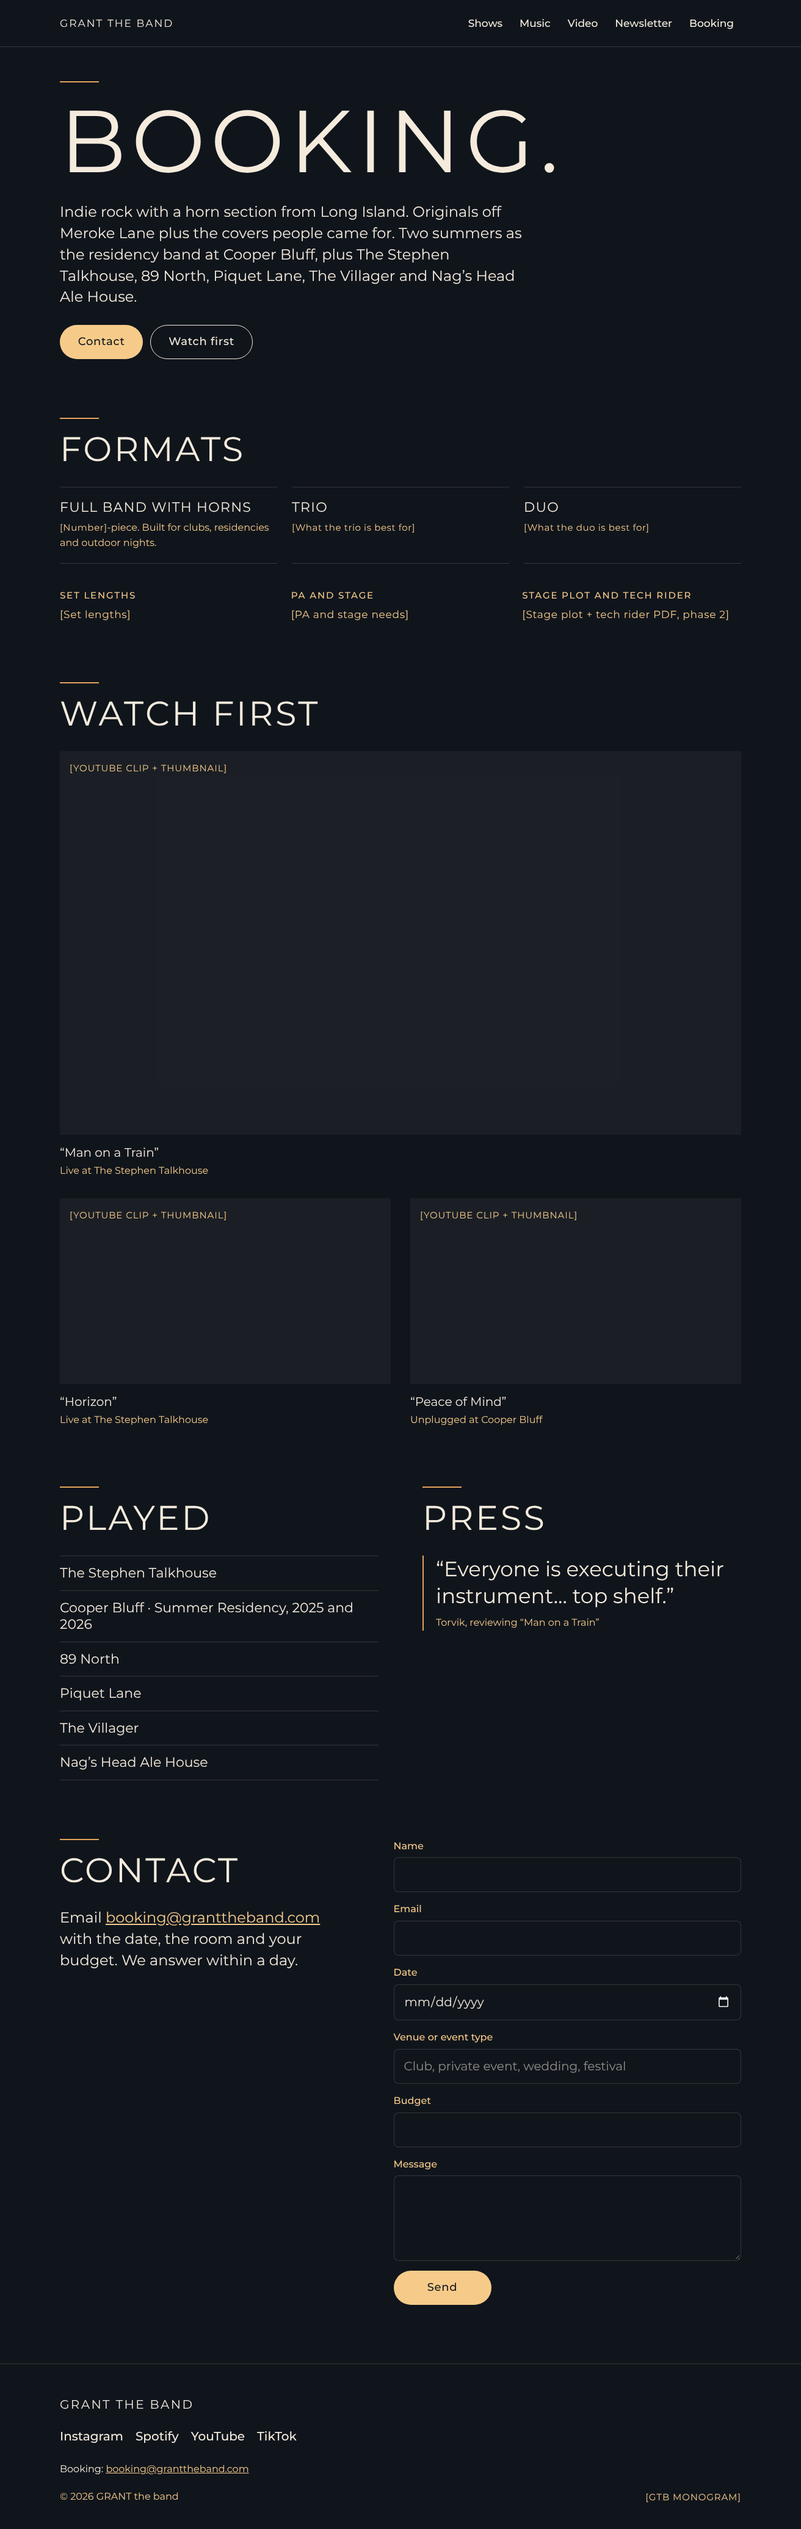
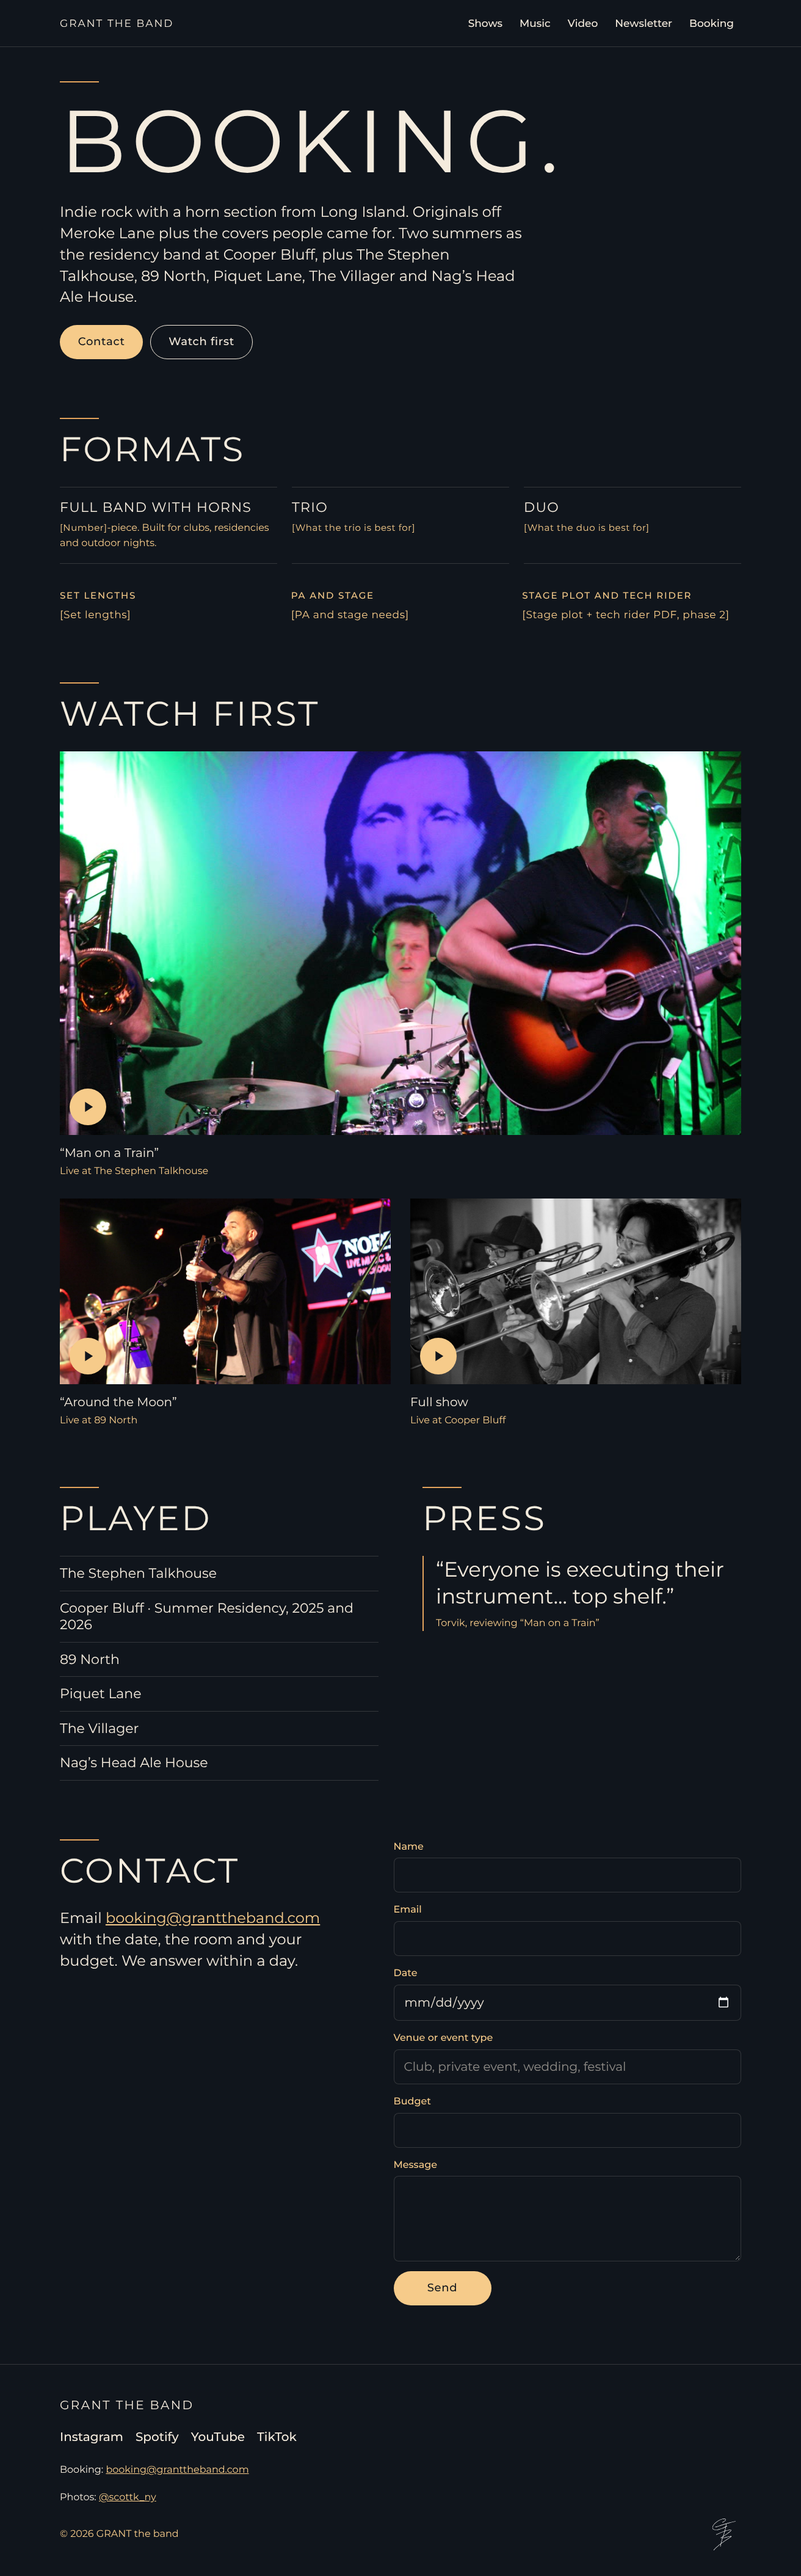
Swap in real assets from public/images/ASSETS.md
- Hero: Talkhouse posters via <picture> (landscape/portrait); graded loops in
  public/video/ are used automatically once those files are added
- Meroke Lane cover, YouTube clips (Man on a Train, Around the Moon, Full show)
  with photo thumbnails, 89 North full-band photo band
- GTB monogram in the footer, favicons and OG cards
- HyperFollow and Apple Music links; Montserrat confirmed as the cover font
- Alt text from ASSETS.md with GRANT the band in full; @scottk_ny credited
- 1200px srcset copies of the 2400px photos (cover left untouched to keep
  its Content Credentials); scrim front-loaded so hero text clears contrast
- Screenshot script loads and decodes lazy images before capturing
- CLAUDE.md and README record the asset rules and what is still missing

Claude-Session: https://claude.ai/code/session_01W6jjmem6fid2ThtCrqmyVk

diff --git a/src/data/site.ts b/src/data/site.ts
@@ -9,9 +9,9 @@ export const links = {
   youtube: 'https://www.youtube.com/@GRANTtheband',
   instagram: 'https://www.instagram.com/grant_theband',
   tiktok: 'https://www.tiktok.com/@granttheband',
-  appleMusic: null as string | null, // [APPLE MUSIC URL]
-  // Meroke Lane HyperFollow (DistroKid smart link). Hero and Music "Listen" buttons.
-  hyperfollow: null as string | null, // [HYPERFOLLOW URL]
+  appleMusic: 'https://music.apple.com/us/album/meroke-lane-ep/6793211371' as string | null, // the EP
+  // Meroke Lane HyperFollow (DistroKid smart link, all platforms). Hero and Music "Listen" buttons.
+  hyperfollow: 'https://distrokid.com/hyperfollow/granttheband/meroke-lane' as string | null,
   // Meroke Lane on YouTube. Falls back to the channel until there's a playlist URL.
   merokeLaneYoutube: null as string | null,
 };
@@ -22,64 +22,134 @@ export const bookingEmail = 'booking@granttheband.com' as string | null;
 // Until then Wordmark.astro renders the type version.
 export const wordmarkSvg = null as string | null; // e.g. '/logo.svg'
 
-// GTB handwritten monogram (white PNG). Footer and favicon. Placeholder until supplied.
-export const monogramPng = null as string | null; // e.g. '/gtb-monogram.png'
+// GTB handwritten monogram, white on transparent. Footer (SVG) and favicon (rendered on night).
+export const monogram = { svg: '/images/gtb-monogram.svg', png: '/images/gtb-monogram.png' };
 
 // Google Search Console verification token (content attribute only).
 export const searchConsoleToken = null as string | null;
 
-// Full band, golden hour. Video loop (with poster) or a still photo in `poster`.
-// Photographer credits. Every photo or video below names one of these, and the
-// footer lists the credits for the photos actually on the site.
+// Photographer credits. Every photo names one of these (or null while the credit is
+// missing), and the footer lists the credits for photos actually rendered on the site.
 export const photographers = {
   scottk: { handle: '@scottk_ny', url: 'https://www.instagram.com/scottk_ny' },
 } as const;
 export type PhotographerId = keyof typeof photographers;
 
-// Grade the loop with scripts/grade-video.sh before it goes in public/media/.
-export const hero = {
-  video: null as string | null, // e.g. '/media/hero-loop.mp4'
-  poster: null as string | null, // e.g. '/media/hero.jpg'
-  alt: 'GRANT the band live', // add the photographer: 'GRANT the band live. Photo by @handle'
-  credit: null as PhotographerId | null,
+export type Photo = {
+  src: string;
+  // Smaller copy for srcset, from scripts/make-image-sizes.sh. Same pixels, resized.
+  small?: { src: string; width: number };
+  width: number;
+  height: number;
+  alt: string;
+  credit: PhotographerId | null; // null = credit MISSING in public/images/ASSETS.md
 };
 
-// Full-bleed photo between Video and Newsletter on home. Hidden until src is set.
-export const photoBand = {
-  src: null as string | null, // e.g. '/media/cooper-bluff.jpg'
-  alt: 'GRANT the band at Cooper Bluff, Oyster Bay. Photo by @scottk_ny',
-  credit: 'scottk' as PhotographerId | null,
-};
+// From public/images/ASSETS.md. Alt text follows that file, with "GRANT the band" in full
+// and the photographer named where known. Cooper photos are small originals: card sizes only.
+export const photos = {
+  heroDesktop: {
+    src: '/images/hero-desktop-poster.jpg',
+    width: 1920,
+    height: 1080,
+    alt: 'GRANT the band on stage at the Stephen Talkhouse',
+    credit: null,
+  },
+  heroPhone: {
+    src: '/images/hero-phone-poster.jpg',
+    width: 1080,
+    height: 1920,
+    alt: 'GRANT the band singer Noah singing with an acoustic guitar at the Stephen Talkhouse',
+    credit: null,
+  },
+  talkhouseStage: {
+    src: '/images/talkhouse-stage.jpg',
+    small: { src: '/images/sized/talkhouse-stage-1200.jpg', width: 1200 },
+    width: 2400,
+    height: 1600,
+    alt: 'GRANT the band on stage at the Stephen Talkhouse under green light',
+    credit: null,
+  },
+  northFullBand: {
+    src: '/images/89north-full-band.jpg',
+    small: { src: '/images/sized/89north-full-band-1200.jpg', width: 1200 },
+    width: 2400,
+    height: 1600,
+    alt: 'GRANT the band, full band on stage at 89 North',
+    credit: null,
+  },
+  northNoahTrombone: {
+    src: '/images/89north-noah-trombone.jpg',
+    small: { src: '/images/sized/89north-noah-trombone-1200.jpg', width: 1200 },
+    width: 2400,
+    height: 1600,
+    alt: 'GRANT the band singer Noah singing with the trombone player beside him at 89 North',
+    credit: null,
+  },
+  cooperHorns: {
+    src: '/images/cooper-horns.jpg',
+    width: 1086,
+    height: 724,
+    alt: 'GRANT the band’s horn section playing at Cooper Bluff, black and white. Photo by @scottk_ny',
+    credit: 'scottk',
+  },
+  cover: {
+    // Original only: keeps the cover's Content Credentials intact (see ASSETS.md).
+    src: '/images/meroke-lane-cover.jpg',
+    width: 2000,
+    height: 2000,
+    alt: 'Meroke Lane EP cover: railroad tracks running into a golden sunset',
+    credit: null, // band artwork, not a photo credit
+  },
+} satisfies Record<string, Photo>;
 
-export function creditsInUse(): { handle: string; url: string }[] {
-  const used = [
-    hero.video || hero.poster ? hero.credit : null,
-    photoBand.src ? photoBand.credit : null,
-  ].filter((c): c is PhotographerId => Boolean(c));
-  return [...new Set(used)].map((id) => photographers[id]);
+export function srcset(photo: Photo): string | undefined {
+  return photo.small ? `${photo.small.src} ${photo.small.width}w, ${photo.src} ${photo.width}w` : undefined;
 }
+
+// Hero: graded loops from ASSETS.md (already graded, do not re-grade). Hero.astro uses each
+// video only if the file exists in public/, so the posters carry the hero until then.
+export const hero = {
+  videoDesktop: '/video/hero-desktop.mp4',
+  videoPhone: '/video/hero-phone.mp4',
+  posterDesktop: photos.heroDesktop,
+  posterPhone: photos.heroPhone,
+};
+
+// Full-bleed photo between Video and Newsletter on home. Hidden while null.
+export const photoBand: Photo | null = photos.northFullBand;
+
+// Every photo the site renders, for footer credits.
+const photosInUse: (Photo | null)[] = [hero.posterDesktop, hero.posterPhone, photoBand, photos.cover];
 
 export const ep = {
   title: 'Meroke Lane',
-  cover: null as string | null, // e.g. '/media/meroke-lane.jpg'
+  cover: photos.cover as Photo | null,
   // EP tracklist in Spotify order. Track 1 title pending Noah's confirmation.
   tracks: ['Meroke', 'Man on a Train', 'Waking Up', 'Horizon', 'Peace of Mind'],
-  // Singles to start with, not the tracklist.
 };
 
 export type Clip = {
-  song: string;
+  title: string;
+  isSong: boolean; // songs render in quotes; "Full show" doesn't
   where: string;
   youtubeId: string | null;
-  thumb: string | null;
+  thumb: Photo | null;
 };
 
-// Full band first. /book uses this order as-is.
+// From ASSETS.md "YouTube embeds". Full band first. /book uses this order as-is.
 export const clips: Clip[] = [
-  { song: 'Man on a Train', where: 'Live at The Stephen Talkhouse', youtubeId: null, thumb: null },
-  { song: 'Horizon', where: 'Live at The Stephen Talkhouse', youtubeId: null, thumb: null },
-  { song: 'Peace of Mind', where: 'Unplugged at Cooper Bluff', youtubeId: null, thumb: null },
+  { title: 'Man on a Train', isSong: true, where: 'Live at The Stephen Talkhouse', youtubeId: 'Fz9s33Rsvh8', thumb: photos.talkhouseStage },
+  { title: 'Around the Moon', isSong: true, where: 'Live at 89 North', youtubeId: 'a1R_eGE8rbk', thumb: photos.northNoahTrombone },
+  { title: 'Full show', isSong: false, where: 'Live at Cooper Bluff', youtubeId: 'cTb2dEve5B8', thumb: photos.cooperHorns },
 ];
+
+export function creditsInUse(): { handle: string; url: string }[] {
+  const used = [...photosInUse, ...clips.map((c) => c.thumb)]
+    .map((p) => p?.credit)
+    .filter((c): c is PhotographerId => Boolean(c));
+  return [...new Set(used)].map((id) => photographers[id]);
+}
 
 // /book "Played", in this order. Only the residency carries dates.
 export const venuesPlayed = [

diff --git a/src/styles/global.css b/src/styles/global.css
@@ -13,7 +13,8 @@
   /* Derived from the tokens above, not new colors. */
   --hairline: rgb(244 235 221 / 0.16); /* cream, low opacity */
   --lift: rgb(244 235 221 / 0.05); /* neutral night block for missing photos */
-  --scrim: linear-gradient(to bottom, rgb(16 21 28 / 0), rgb(16 21 28 / 0.7)); /* the one gradient */
+  /* The one gradient: night 0% to 70%, front-loaded so the centered hero text sits on ~60%. */
+  --scrim: linear-gradient(to bottom, rgb(16 21 28 / 0) 0%, rgb(16 21 28 / 0.65) 28%, rgb(16 21 28 / 0.7) 100%);
 
   /* Montserrat stands in for the Meroke Lane cover font. Swap here when confirmed. */
   --display: 'Montserrat Variable', 'Montserrat', system-ui, sans-serif;

diff --git a/CLAUDE.md b/CLAUDE.md
@@ -18,7 +18,7 @@ Conversions, in priority order:
 
 - Astro (current stable release, static output), deployed on Netlify from GitHub
 - `main` = production. All work on branches, opened as PRs so Netlify builds a deploy preview. Never merge to main or touch DNS without Noah's explicit OK.
-- Fonts self-hosted via Fontsource: Montserrat (variable, stand-in for the Meroke Lane cover font) and Reenie Beanie
+- Fonts self-hosted via Fontsource: Montserrat (variable; confirmed as the Meroke Lane cover font, Regular 400 caps) and Reenie Beanie
 - `@astrojs/sitemap`
 - Netlify Forms for the booking form (no backend)
 - Email signup: embed form from the provider Noah picks (Kit or MailerLite free tier). Placeholder component until then.
@@ -72,7 +72,7 @@ No browns, no other surfaces. Hairline dividers are cream at low opacity. Text c
 
 ### Type
 
-- One display face: thin/regular-weight wide geometric sans, ALL CAPS, letter-spacing 0.06em. Montserrat 400 is the stand-in until Noah confirms the exact Meroke Lane cover font, then swap it (one place: `--display` in `global.css`).
+- One display face: Montserrat Regular (400), ALL CAPS, letter-spacing 0.06em. Confirmed as the Meroke Lane cover font (see `public/images/ASSETS.md`). Set in one place: `--display` in `global.css`.
 - Headlines are regular weight. Bold (700) only for show dates (the ticket: venue, date, set, line values). No 800/900 anywhere. UI text (buttons, nav) is 500.
 - Body: Montserrat 400, sentence case, 18px phone / 20px desktop, line-height 1.55, max-width 65ch.
 - Handwritten accent: Reenie Beanie (replaces Caveat everywhere). Max one handwritten line per screen.
@@ -82,7 +82,7 @@ No browns, no other surfaces. Hairline dividers are cream at low opacity. Text c
 
 ### Layout
 
-- Photo-first. Real photos full bleed with a night gradient scrim behind any text: night at 0% to 70%. That is the one gradient allowed.
+- Photo-first. Real photos full bleed with a night gradient scrim behind any text: night at 0% to 70% (front-loaded: 65% by 28% of the height, so the hero logo and label clear 3:1 and 4.5:1 at their worst spots). That is the one gradient allowed.
 - No empty colored boxes as the main visual. Until photos land, use a single neutral night block, not dashed boxes. Sections without their photo yet (the photo band) stay hidden.
 - Buttons: exactly two styles. Primary = gold fill, night text. Secondary = 1px cream outline. No gold-outline variant (placeholder buttons use the primary style).
 - Section spacing: 96px desktop / 64px phone between sections, nothing taller.
@@ -99,8 +99,8 @@ Each show renders as the "Next stop." ticket: cream paper `#F3E9D6`, rounded cor
 
 ### Signature and credits
 
-- GTB handwritten monogram (white): small in the footer and as the favicon. Placeholder until Noah supplies the PNG (`monogramPng` in `site.ts`).
-- Credit photographers in alt text and the footer. Cooper Bluff photos: @scottk_ny. Credits are listed per photo in `site.ts` and the footer shows credits for photos actually on the site.
+- GTB handwritten monogram (white): `public/images/gtb-monogram.svg` small in the footer; the favicons render it on night (`scripts/make-images.cjs`).
+- Credit photographers in alt text and the footer. Cooper Bluff photos: @scottk_ny. Talkhouse and 89 North photos and the hero video: credit MISSING (see ASSETS.md); add it to `photographers` in `site.ts` when known. Every photo is in `photos` in `site.ts` with its credit, and the footer shows credits for photos actually rendered.
 
 ### Photo and video handling
 
@@ -109,6 +109,16 @@ Warm grade for the hero video loop (and any band footage), via `scripts/grade-vi
 ```
 colorbalance=rs=0.10:gs=0.02:bs=-0.12:rm=0.08:bm=-0.10:rh=0.04:bh=-0.06,eq=saturation=0.92:contrast=1.04
 ```
+
+### Assets
+
+`public/images/ASSETS.md` is the asset manifest (sources, sizes, alt text, credits, what's missing). Read it before touching images.
+
+- Hero: `hero-desktop-poster.jpg` (landscape screens) / `hero-phone-poster.jpg` (portrait) via `<picture>`. The graded loops go in `public/video/hero-desktop.mp4` and `hero-phone.mp4`; `Hero.astro` uses them only if the files exist, so the posters carry the hero until then. They are already graded: never re-grade.
+- Clip thumbnails: Talkhouse stage, 89 North (Noah + trombone), Cooper horns. Photo band: 89 North full band.
+- Cooper photos are small originals (540px and 1086px). Card/thumbnail sizes only, never upscaled or full bleed.
+- `scripts/make-image-sizes.sh` writes 1200px copies of the 2400px photos to `public/images/sized/` for srcset. Never resize the Meroke Lane cover: it would strip its Content Credentials.
+- Alt text follows ASSETS.md, with "GRANT the band" in full instead of "GRANT".
 
 ### Voice
 
@@ -133,7 +143,7 @@ Use this copy as written. Typographic apostrophes and quotes. Never use em dashe
    - No tagline, no location line, no sub paragraph.
 2. Next stop (only when there are upcoming dates): title "NEXT STOP.", one ticket per show, link to `/shows`.
 3. Music (`#music`): cover art, title "MEROKE LANE" (heading only, no gold line), the EP tracklist as a quiet numbered list in Spotify order: 1. “Meroke” (title pending Noah's confirmation) 2. “Man on a Train” 3. “Waking Up” 4. “Horizon” 5. “Peace of Mind”, one gold primary "Listen" button (HyperFollow), then one row of small text links: Spotify (the EP: https://open.spotify.com/album/6sBrvYJHa66nYqVTg6bNa2) · Apple Music · YouTube. Text block vertically centered against the cover art.
-4. Video (`#video`): title "LIVE". Three clip cards, song in quotes plus a gold line: “Man on a Train” / Live at The Stephen Talkhouse; “Horizon” / Live at The Stephen Talkhouse; “Peace of Mind” / Unplugged at Cooper Bluff. Link "More on YouTube".
+4. Video (`#video`): title "LIVE". Three clip cards (YouTube IDs in `site.ts`, from ASSETS.md), song in quotes plus a gold line: “Man on a Train” / Live at The Stephen Talkhouse; “Around the Moon” / Live at 89 North; Full show (no quotes, not a song) / Live at Cooper Bluff. Link "More on YouTube".
 5. Photo band: full-bleed band photo, no text. Hidden until the photo exists.
 6. Newsletter (`#newsletter`): title "FIRST TO KNOW.", gold line "New music and show dates, before anyone else." Email field + "Sign up". Same copy everywhere the signup appears (except the /shows empty state's inline "Get them first.").
 
@@ -175,7 +185,8 @@ Single phone-width column: wordmark, "Indie rock from Long Island. Better in the
 - YouTube: https://www.youtube.com/@GRANTtheband
 - Instagram: https://www.instagram.com/grant_theband
 - TikTok: https://www.tiktok.com/@granttheband
-- Apple Music: [APPLE MUSIC URL]
+- Apple Music, Meroke Lane EP: https://music.apple.com/us/album/meroke-lane-ep/6793211371
+- HyperFollow (all platforms, "Listen" buttons): https://distrokid.com/hyperfollow/granttheband/meroke-lane
 
 ## Redirects (netlify.toml, 301)
 
@@ -201,7 +212,7 @@ Single phone-width column: wordmark, "Indie rock from Long Island. Better in the
 
 ## Placeholders Noah still owes
 
-Hero video loop or photo (full band, golden hour), band photo for the photo band, logo SVG, GTB monogram PNG (white), the exact Meroke Lane cover font, HyperFollow URL, Meroke Lane cover art, three clip YouTube URLs and thumbnails (thumbnails feature Noah), Apple Music URL, full-band piece count, trio/duo lines, set lengths, PA/stage needs, email provider choice. Use clearly labeled placeholders until then. Never invent facts, stats or quotes.
+Hero video files (`public/video/hero-desktop.mp4`, `hero-phone.mp4`; described in ASSETS.md but not committed), photographer credits for the Talkhouse and 89 North photos and the hero video, logo SVG (the wordmark is still the type version), confirmation of track 1's title ("Meroke"), full-band piece count, trio/duo lines, set lengths, PA/stage needs, stage plot PDF, email provider choice, `now.json` content, Search Console token. Use clearly labeled placeholders until then. Never invent facts, stats or quotes.
 
 ## Brand rules (non-negotiable)
 
@@ -209,7 +220,7 @@ Hero video loop or photo (full band, golden hour), band photo for the photo band
 - Never self-deprecating, never apologetic, never defensive. No jokes at the band's expense.
 - No em dashes. No try-hard or corporate copy. No begging CTAs.
 - Never promote Encore or any app. No family, day job or personal details.
-- Never fake live footage. No AI-generated visuals on the site.
+- Never fake live footage. No AI-generated visuals on the site. One exception, approved by Noah: the released Meroke Lane EP cover, which Canva's Content Credentials list as made with Canva AI. It is the official release artwork, used unaltered with its credentials intact. Nothing else AI-made.
 
 ## Phases
 

diff --git a/README.md b/README.md
@@ -35,15 +35,19 @@ Links, the booking email, hero video, cover art and clip IDs all live in `src/da
 
 `npm run build:preview && npm run screenshots` saves full-page shots of `/` and `/book` at 390x844, 1312x634 and 1440x900 to `screenshots/`. `build:preview` sets `CONTEXT=deploy-preview`, like a Netlify deploy preview, so the two sample tickets render while `shows.json` is empty. Needs Playwright. Fails if a page scrolls sideways.
 
+## Images
+
+Everything Noah supplies is in `public/images/` with `ASSETS.md` as the manifest. Photos are registered in `photos` in `src/data/site.ts` (src, size, alt, credit). After adding a large photo, run `scripts/make-image-sizes.sh` to make its 1200px srcset copy.
+
 ## Hero video
 
-Grade and encode the loop before it goes in `public/media/`:
+The supplied loops are already graded: drop them in as `public/video/hero-desktop.mp4` and `public/video/hero-phone.mp4` and the hero picks them up on the next build. For new raw footage, grade and encode first:
 
 ```sh
-scripts/grade-video.sh source.mov public/media/hero-loop.mp4
+scripts/grade-video.sh source.mov public/video/hero-desktop.mp4
 ```
 
-Applies the warm grade from CLAUDE.md, strips audio, writes H.264 with faststart plus a `-poster.jpg`, and warns if the file is over 3 MB. Then set `hero.video` and `hero.poster` in `src/data/site.ts`.
+Applies the warm grade from CLAUDE.md, strips audio, writes H.264 with faststart plus a `-poster.jpg`, and warns if the file is over 3 MB. Poster paths live in `hero` in `src/data/site.ts`.
 
 ## OG images and favicons
 
